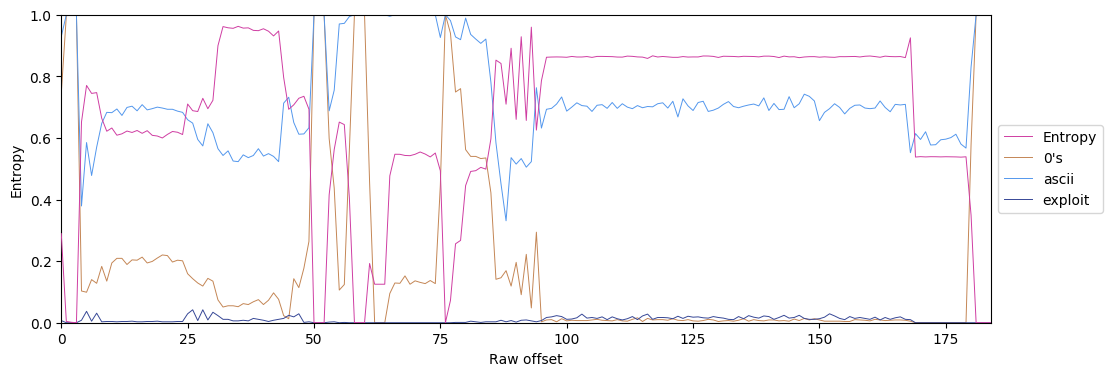
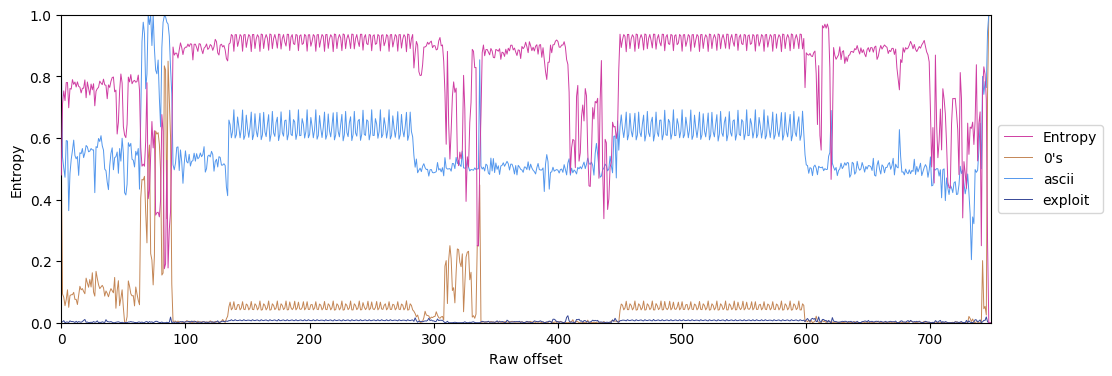
Added EP indicator

Changed region(s): [[0.0306, 0.0293, 0.8867, 0.9362]]

diff --git a/exeGraph_mpl.py b/exeGraph_mpl.py
@@ -19,7 +19,7 @@ from math import log, e
 import math
 import hashlib
 import statistics
-
+import os
 
 
 ## Helper functions
@@ -190,10 +190,18 @@ def section_byte_occurance_histogram(pebin, fig, ncols=2, ignore_0=True, bins=1,
     fig.legend(loc='center left', bbox_to_anchor=(1, 0.5))
 
 
-def file_ent(fh, pebin=None, chunksize=100, ibytes={'0\'s':[0], 'ascii':list(range(0,128)), 'exploit':[44,144]}, trend=False):
+
+def file_ent(filename, figsize=(12,4), chunks=750, ibytes={'0\'s':[0], 'ascii':list(range(0,128)), 'exploit':[44,144]}):
+
+    fh = open(filename, "rb")
+
+    # Calculate the overall chunksize 
+    fs = os.fstat(fh.fileno()).st_size
+    chunksize = -(-fs // chunks)
 
     shannon_samples = []
     byte_ranges = {key: [] for key in ibytes.keys()}
+
 
     prev_ent = 0
     for chunk in read_f(fh, chunksize=chunksize):
@@ -220,18 +228,38 @@ def file_ent(fh, pebin=None, chunksize=100, ibytes={'0\'s':[0], 'ascii':list(ran
     # Draw the graphs in order
     zorder=99
 
+    fig, ax = plt.subplots(figsize=figsize)
+
+
     label = 'Entropy'
     c = section_colour(label)
-    plt.plot(shannon_samples, label=label, c=c, zorder=zorder, linewidth=0.7)
+    ax.plot(shannon_samples, label=label, c=c, zorder=zorder, linewidth=0.7)
 
     for label, percentages in byte_ranges.items():
         zorder -= zorder
         c = section_colour(label)
-        plt.plot(percentages, label=label, c=c, zorder=zorder, linewidth=0.7)
+        ax.plot(percentages, label=label, c=c, zorder=zorder, linewidth=0.7)
+
+
+    # exebin = lief.PE.parse(filename=filename)
+    # if type(exebin) == lief.PE.Binary:
+
+    #     # entrypoint pointer and line
+    #     ep = exebin.entrypoint
+    #     ep_x = -(-ep // fs)
+
+    #     ax.annotate('EP', xy=(ep_x, 1), xytext=(ep_x, 1.08),
+    #         arrowprops=dict(facecolor='black', shrink=0.1),
+    #     )
+
+
+    # else:
+    #     print('not_pe')
+
+
 
     # Customise the plt
     plt.axis([0,len(shannon_samples)-1, 0,1])
-    # plt.title('Section Entropy (sampled @ {:d}): {}'.format(block_size, pebin.name))
     plt.xlabel('Raw offset')
     plt.ylabel('Entropy')
 
@@ -241,15 +269,15 @@ def file_ent(fh, pebin=None, chunksize=100, ibytes={'0\'s':[0], 'ascii':list(ran
 if __name__ == '__main__':
 
     # ## Input file
-    filename='mal/aa14c8e777-cape'
-    filename='mal/test.exe'
-    filename='mal/Locky.bin.mal'
-    # filename='mal/Shamoon.bin.mal'
+    # filename='mal/aa14c8e777-cape'
+    # filename='mal/test.exe'
+    # filename='mal/Locky.bin.mal'
+    filename='mal/Shamoon.bin.mal'
     # filename='mal/Win32.Sofacy.A.bin.mal'
     # filename='mal/upxed.exe'
     # filename='mal/cape-9480-d746baede2c7'
     # filename='mal/cape-9472-d69be688e'
-
+    # filename='/bin/bash'
 
 
 
@@ -274,9 +302,8 @@ if __name__ == '__main__':
 
 
 
-    fh = open(filename, "rb")
-    fig = plt.figure(figsize=fsize)
-    file_ent(fh=fh, chunksize=1000, trend=False)
+    
+    file_ent(filename=filename, figsize=fsize)
     plt.savefig(fname='file_ent.{}'.format(fmt), format=fmt, bbox_inches='tight')
 
     plt.show()
